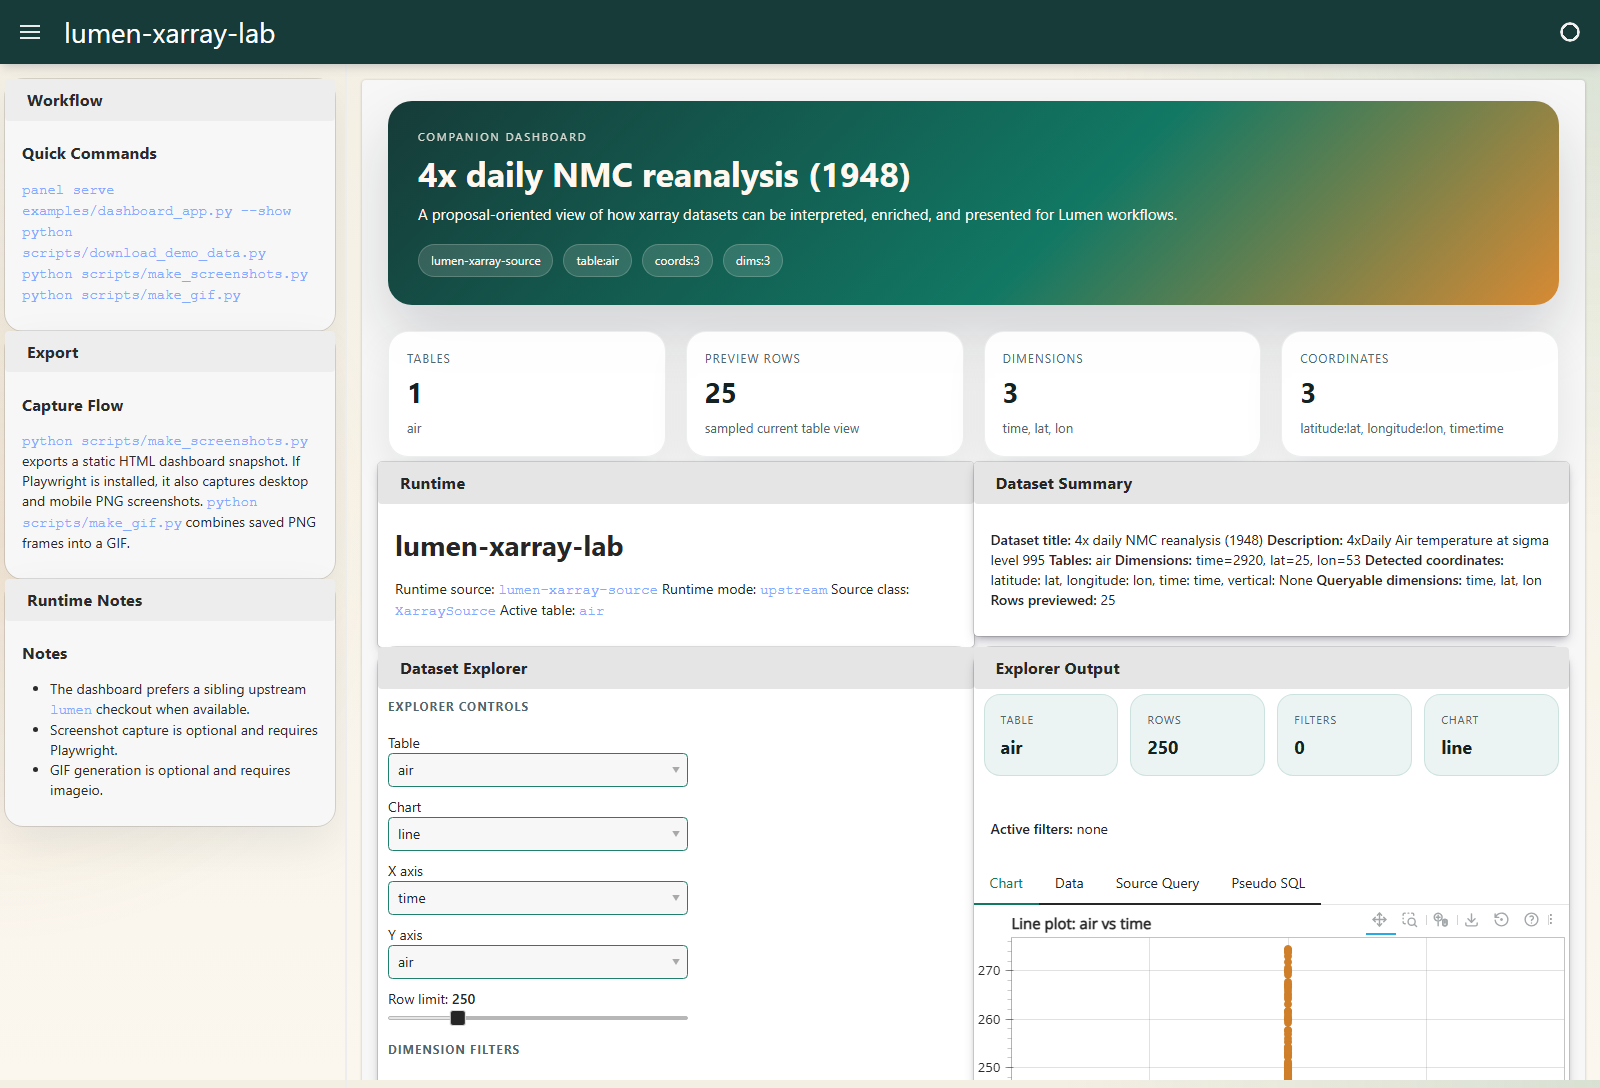
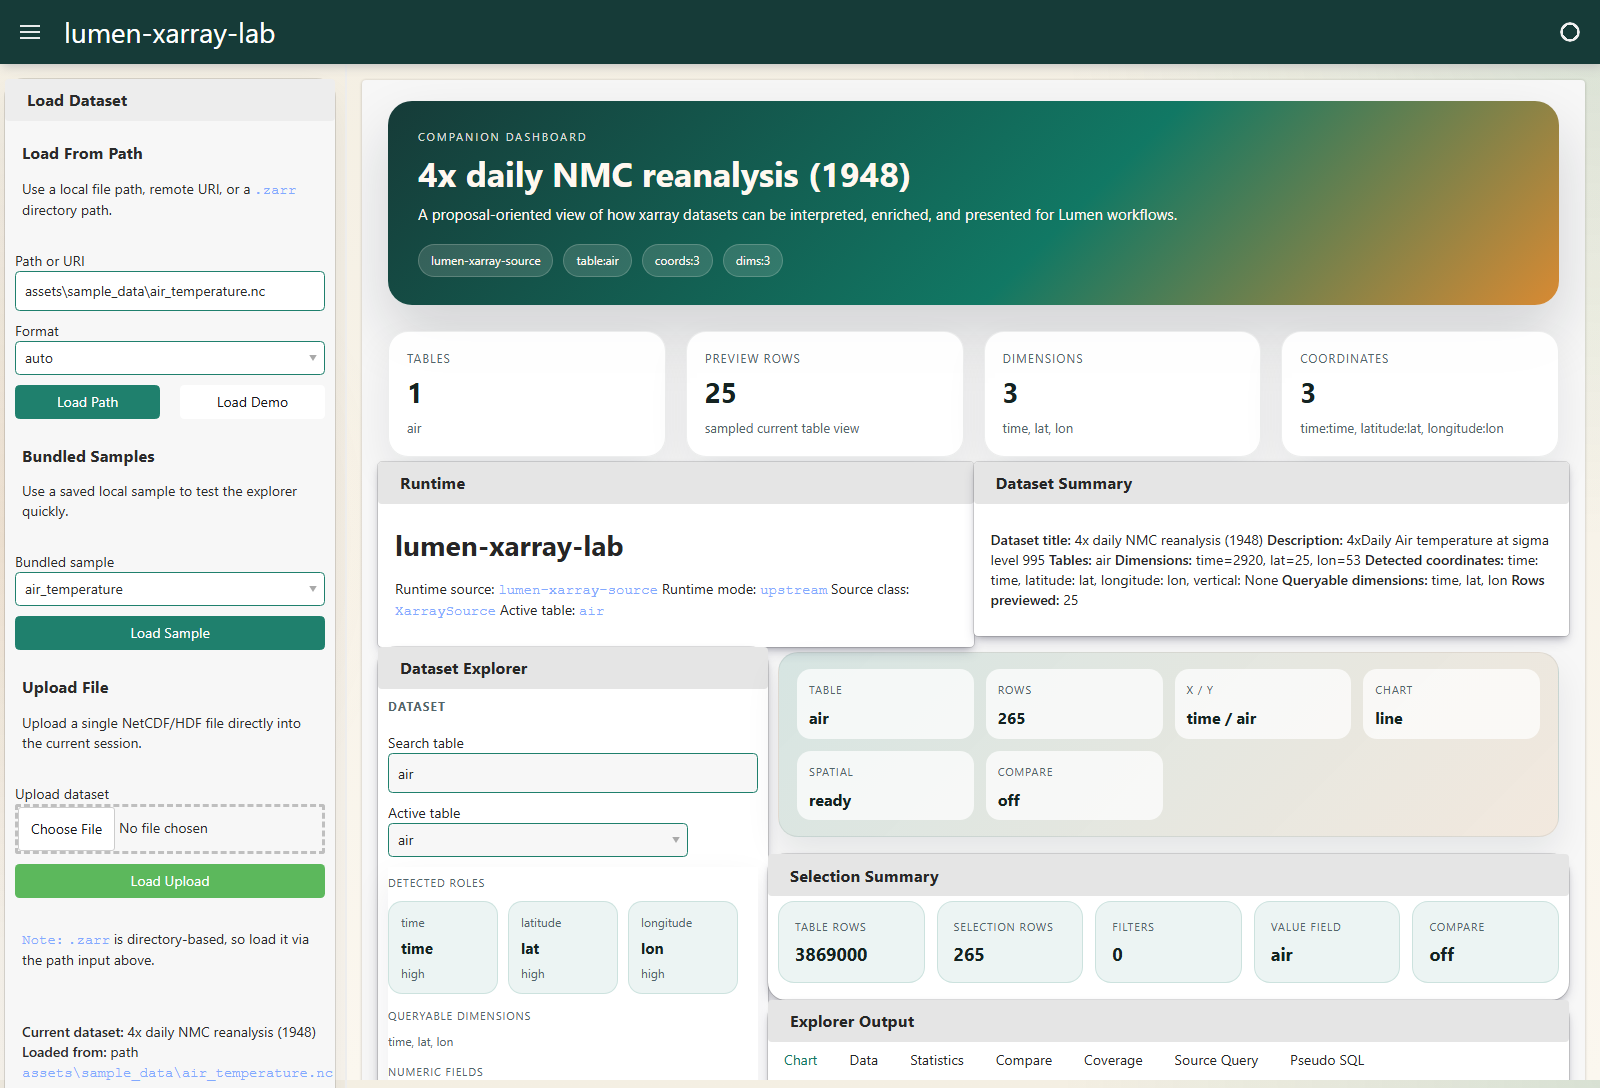
Publish benchmark evidence and refresh demo assets

diff --git a/src/lumen_xarray_lab/dashboard/export_flow.py b/src/lumen_xarray_lab/dashboard/export_flow.py
@@ -137,14 +137,17 @@ def capture_dashboard_story_frames(
 
     target_dir = Path(output_dir)
     target_dir.mkdir(parents=True, exist_ok=True)
+    for existing in target_dir.glob("*.png"):
+        existing.unlink()
     html_url = _as_file_url(html_path)
     sequence = [
-        ("chart", "Chart"),
+        ("overview", None),
         ("data", "Data"),
+        ("statistics", "Statistics"),
         ("source_query", "Source Query"),
         ("pseudo_sql", "Pseudo SQL"),
     ]
-    clip = {"x": 250, "y": 360, "width": 1220, "height": 760}
+    clip = {"x": 40, "y": 190, "width": 1510, "height": 900}
     captured: list[Path] = []
 
     with sync_playwright() as playwright:
@@ -154,7 +157,7 @@ def capture_dashboard_story_frames(
         page.wait_for_timeout(wait_ms)
 
         for index, (slug, label) in enumerate(sequence, start=1):
-            if label != "Chart":
+            if label is not None:
                 page.locator(f"text={label}").first.click()
                 page.wait_for_timeout(600)
             target = target_dir / f"{index:02d}_{slug}.png"

diff --git a/src/lumen_xarray_lab/benchmark_utils.py b/src/lumen_xarray_lab/benchmark_utils.py
@@ -1,7 +1,11 @@
 from __future__ import annotations
 
+from datetime import datetime, timezone
 import json
+import os
 from pathlib import Path
+import platform
+import sys
 from typing import Mapping
 
 
@@ -30,6 +34,23 @@ def format_bytes(num_bytes: int) -> str:
             return f"{value:.2f} {unit}"
         value /= 1024
     return f"{num_bytes} B"
+
+
+def benchmark_context(command: str | None = None) -> dict[str, object]:
+    context: dict[str, object] = {
+        "generated_at_utc": datetime.now(timezone.utc).isoformat(),
+        "platform": platform.platform(),
+        "python": sys.version.split()[0],
+        "cpu_count": os.cpu_count(),
+    }
+    if command is not None:
+        context["command"] = command
+    try:
+        import psutil  # type: ignore
+    except ImportError:
+        return context
+    context["memory_gb"] = round(psutil.virtual_memory().total / 1024 ** 3, 2)
+    return context
 
 
 def write_benchmark_report(

diff --git a/benchmarks/netcdf_vs_zarr.py b/benchmarks/netcdf_vs_zarr.py
@@ -12,7 +12,7 @@ if str(SRC) not in sys.path:
 
 import xarray as xr
 
-from lumen_xarray_lab.benchmark_utils import write_benchmark_report
+from lumen_xarray_lab.benchmark_utils import benchmark_context, write_benchmark_report
 from lumen_xarray_lab.datasets import load_demo_dataset
 
 
@@ -34,7 +34,9 @@ def main() -> None:
     report = write_benchmark_report(
         "netcdf_vs_zarr",
         {
+            **benchmark_context("python benchmarks/netcdf_vs_zarr.py"),
             "netcdf_open_seconds": round(netcdf_seconds, 4),
+            "zarr_available": False,
             "zarr_note": "Add Zarr timing once the environment is configured with zarr.",
         },
         ROOT / "benchmarks" / "results",

diff --git a/tests/test_benchmark_utils.py b/tests/test_benchmark_utils.py
@@ -1,6 +1,7 @@
 from __future__ import annotations
 
 from lumen_xarray_lab.benchmark_utils import (
+    benchmark_context,
     estimate_dataframe_bytes,
     estimate_flattened_rows,
     estimate_row_explosion,
@@ -23,6 +24,14 @@ def test_estimate_row_explosion():
 
 def test_format_bytes():
     assert format_bytes(1024) == "1.00 KB"
+
+
+def test_benchmark_context_includes_runtime_metadata():
+    context = benchmark_context("python benchmarks/demo.py")
+
+    assert context["python"]
+    assert context["platform"]
+    assert context["command"] == "python benchmarks/demo.py"
 
 
 def test_write_benchmark_report(tmp_path):

diff --git a/benchmarks/flattening_vs_sql.py b/benchmarks/flattening_vs_sql.py
@@ -9,6 +9,7 @@ if str(SRC) not in sys.path:
     sys.path.insert(0, str(SRC))
 
 from lumen_xarray_lab.benchmark_utils import (
+    benchmark_context,
     estimate_dataframe_bytes,
     estimate_flattened_rows,
     estimate_row_explosion,
@@ -23,6 +24,7 @@ def main() -> None:
     columns = len(sizes) + 1
     bytes_estimate = estimate_dataframe_bytes(rows, columns)
     metrics = {
+        **benchmark_context("python benchmarks/flattening_vs_sql.py"),
         "sizes": sizes,
         "flattened_rows": rows,
         "estimated_dataframe_bytes": bytes_estimate,

diff --git a/benchmarks/large_grid_limits.py b/benchmarks/large_grid_limits.py
@@ -9,6 +9,7 @@ if str(SRC) not in sys.path:
     sys.path.insert(0, str(SRC))
 
 from lumen_xarray_lab.benchmark_utils import (
+    benchmark_context,
     estimate_dataframe_bytes,
     estimate_flattened_rows,
     format_bytes,
@@ -24,6 +25,7 @@ def main() -> None:
     report = write_benchmark_report(
         "large_grid_limits",
         {
+            **benchmark_context("python benchmarks/large_grid_limits.py"),
             "sizes": sizes,
             "large_grid_rows": rows,
             "large_grid_estimated_bytes": bytes_estimate,

diff --git a/docs/benchmarks.md b/docs/benchmarks.md
@@ -1,44 +1,60 @@
-# Benchmarks
+# Benchmarks And Limits
 
-The benchmark layer in this repository is intentionally conservative. It exists
-to support engineering decisions, not marketing claims.
+This page publishes the current benchmark evidence for the lab repo. The goal
+is to prove the shape of the problem, especially row explosion after flattening,
+not to make broad performance claims.
 
-## Current Benchmark Scripts
+## Benchmark Environment
 
-- `benchmarks/flattening_vs_sql.py`
-- `benchmarks/netcdf_vs_zarr.py`
-- `benchmarks/large_grid_limits.py`
+These results were generated on March 17, 2026 on the local proposal machine:
 
-## What They Currently Provide
+- platform: `Windows-11-10.0.22000-SP0`
+- python: `3.13.5`
+- logical CPU count: `4`
+- memory: `7.88 GB`
 
-- flattened row-count estimation from dataset dimensions
-- rough DataFrame memory estimates
-- a small NetCDF loading timing example
-- grid-size scaling intuition for large spatial datasets
+## Commands Used
 
-## What They Do Not Yet Provide
+```bash
+python benchmarks/flattening_vs_sql.py
+python benchmarks/netcdf_vs_zarr.py
+python benchmarks/large_grid_limits.py
+```
 
-- production-quality SQL vs native comparisons
-- benchmark result publication across many machines
-- cloud/object-store performance claims
-- broad format coverage with reproducible result archives
+## Observed Results
 
-## Rules For Publishing Results
+| Script | What it measures | Result |
+|---|---|---|
+| `flattening_vs_sql.py` | Estimated row growth for a medium `time x lat x lon` selection | `3,869,000` flattened rows and about `118.07 MB` for a 4-column DataFrame |
+| `netcdf_vs_zarr.py` | Local NetCDF open time for the small air-temperature demo dataset | `0.3703 s` on this machine |
+| `large_grid_limits.py` | Estimated row and memory growth for a larger climate-style grid | `378,957,600` rows and about `11.29 GB` for a 4-column DataFrame |
 
-Do not turn benchmark output into a public claim unless the result includes:
+## Why These Results Matter
 
-- dataset description
-- hardware and OS details
-- exact commands
-- raw output
-- caveats and unsupported cases
+- The medium selection is already large enough to justify filtering before flattening.
+- The large-grid estimate shows why `max_rows` is part of the upstream source contract.
+- The published NetCDF timing gives a concrete baseline for the small demo dataset.
+- The current environment does not have `zarr` installed, so the Zarr timing remains an explicit gap rather than a fake comparison.
 
-## Intended Next Step
+## Known Limitations
 
-When the SQL prototype becomes real, benchmarks should compare:
+- These are single-machine results, not cross-platform benchmarks.
+- The DataFrame memory numbers are estimates based on row count and column count, not measured peak memory.
+- The NetCDF timing uses a small demo dataset and should not be generalized to large remote stores.
+- There is no SQL-vs-native benchmark yet because the SQL path is still experimental.
+- There is no Zarr timing yet because the local benchmark environment is missing the `zarr` package.
 
-- native flattening path
-- filtered native path
-- SQL-backed query path
-- row growth after flattening
-- memory safety behavior around `max_rows`
+## Raw Reports
+
+- [`benchmarks/results/flattening_vs_sql.json`](../benchmarks/results/flattening_vs_sql.json)
+- [`benchmarks/results/netcdf_vs_zarr.json`](../benchmarks/results/netcdf_vs_zarr.json)
+- [`benchmarks/results/large_grid_limits.json`](../benchmarks/results/large_grid_limits.json)
+
+## Prototype Takeaway
+
+The benchmark evidence supports the proposal's main implementation choice:
+
+1. resolve the xarray variable first
+2. filter in xarray with coordinate-aware selection
+3. enforce safety limits like `max_rows`
+4. flatten to a DataFrame only after the selection is small enough

diff --git a/README.md b/README.md
@@ -53,7 +53,7 @@ Still experimental:
 
 - AI upload integration beyond simple previews
 - SQL-backed xarray access
-- benchmark publication with larger datasets and raw result snapshots
+- broader benchmark coverage across larger datasets and machines
 - upstream extraction of stable lab features
 
 ## Runtime Design
